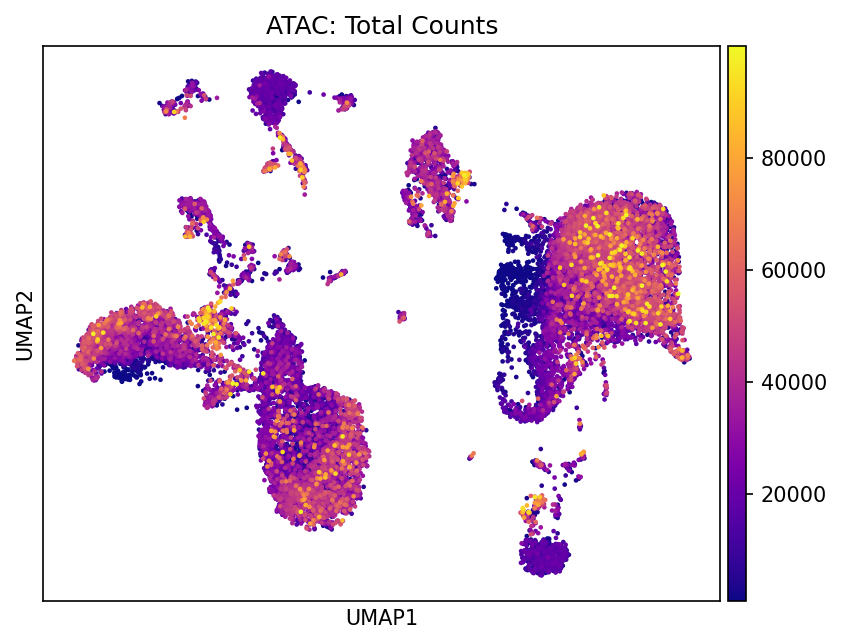
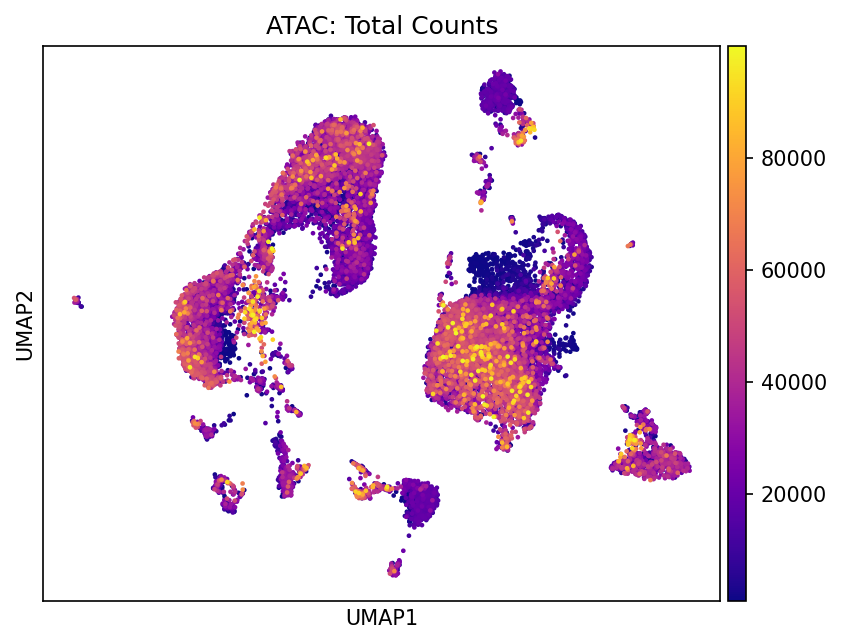
update UMAP after filter changes

diff --git a/README.md b/README.md
@@ -39,9 +39,9 @@ It’s conceptually similar to **Seurat + Signac** in R 🖥, allowing integr
 #### UMAP 
 
 
-![rna](neurog2_filtered_umap_rna_only.png?v=1)
-![atac](neurog2_filtered_umap_atac_only.png?v=1)
-![overlapped](neurog2_filtered_umap_rna_atac_overlapped.png?v=1)
+![rna](neurog2_filtered_umap_rna_only.png?v=2)
+![atac](neurog2_filtered_umap_atac_only.png?v=2)
+![overlapped](neurog2_filtered_umap_rna_atac_overlapped.png?v=2)
 
 
 
